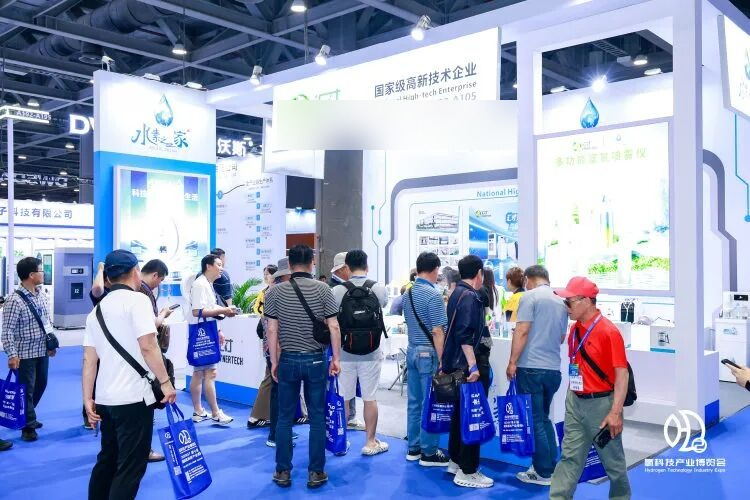
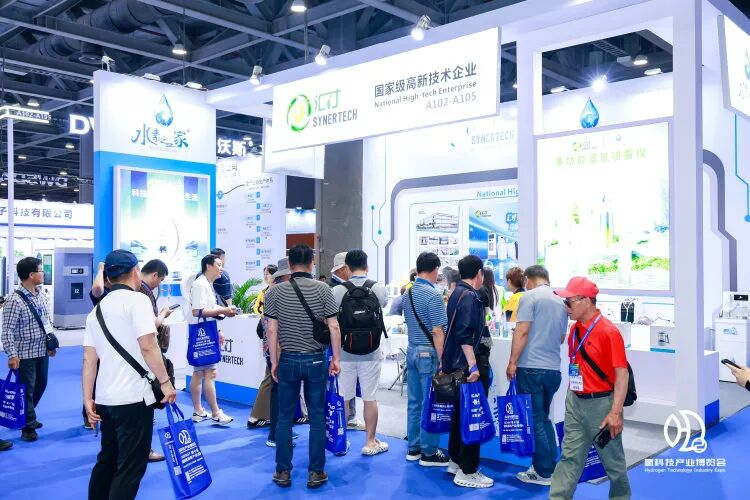
revert: 全面取消图片脱敏（品牌标识/电话/人脸一律恢复原图），图注不再声称已模糊处理

Changed region(s): [[0.368, 0.18, 0.5213, 0.3], [0.6133, 0.18, 0.7053, 0.24], [0.5213, 0.24, 0.6133, 0.27]]

diff --git a/report.html b/report.html
@@ -2274,8 +2274,8 @@ numbers.</p>
 <li><p><strong>产品形态与使用习惯</strong>： 运动随行电解富氢水杯、固态微孔便携发泡能量片（加入运动饮料冲调）、运动康复中心微高压富氢氧舱（1.3~1.5 ATA 赛后深度恢复）、富氢深层肌肉冰敷/热敷凝胶贴。</p></li>
 </ul>
 <hr />
-<div class="photo-evidence pe-strip"><img src="assets/expo_hydrogen_coffee.jpg" alt="观众在「AI 智能冰热现磨氢咖啡」机触屏前操作；机身为同行企业卡沃罗品牌（标识已作模糊处理）"/>
-<div class="pe-cap">观众在「AI 智能冰热现磨氢咖啡」机触屏前操作；机身为同行企业卡沃罗品牌（标识已作模糊处理）<span class="pe-src">2026HST 第十届广州国际氢科技产业博览会现场（2026-05，本报告研究组实拍）</span></div>
+<div class="photo-evidence pe-strip"><img src="assets/expo_hydrogen_coffee.jpg" alt="观众在「AI 智能冰热现磨氢咖啡」机触屏前操作；机身为同行企业卡沃罗品牌"/>
+<div class="pe-cap">观众在「AI 智能冰热现磨氢咖啡」机触屏前操作；机身为同行企业卡沃罗品牌<span class="pe-src">2026HST 第十届广州国际氢科技产业博览会现场（2026-05，本报告研究组实拍）</span></div>
 </div>
 <div class="pe-grid two">
 
@@ -2881,7 +2881,7 @@ numbers.</p>
 </ol>
 <h3 id="场景六氢中医与氢中药分子氢赋能传统中医药外治现代化氢三伏贴神阙贴与热灸中药透皮">5.3.6 场景六：氢中医与氢中药——分子氢赋能传统中医药外治现代化（氢三伏贴、神阙贴与热灸中药透皮）</h3>
 <div class="photo-evidence"><img src="assets/traditional_medicine_hongyao_fusion.jpg" alt="宏瑶股份宣传页：金秀瑶浴产品陈列、ODM 服务卡与瑶浴提取液"/>
-<div class="pe-cap">宏瑶股份宣传页：金秀瑶浴产品陈列、ODM 服务卡与瑶浴提取液（「氢＋中药」产学研合作实景：金秀道地瑶药种植基地、宏瑶股份深加工产线与瑶浴提取液；合作方定制服务信息与联系电话已作脱敏处理）<span class="pe-src">木齐科技「氢＋中药」产学研项目资料库</span>（原始实拍由广西宏瑶生物科技股份有限公司提供）</span></div>
+<div class="pe-cap">宏瑶股份宣传页：金秀瑶浴产品陈列、ODM 服务卡与瑶浴提取液（「氢＋中药」产学研合作实景：金秀道地瑶药种植基地、宏瑶股份深加工产线与瑶浴提取液；）<span class="pe-src">木齐科技「氢＋中药」产学研项目资料库</span>（原始实拍由广西宏瑶生物科技股份有限公司提供）</span></div>
 </div>
 
 <p>中医药外治法（贴敷、热敷、泥灸、足浴、熏蒸）千百年来面临一个根本性瓶颈：中草药大分子活性成分角质层透皮吸收率普遍不足 5%~10%。分子氢技术的跨界介入，为传统中医药的现代化赋能打开了突破口：</p>
@@ -2944,8 +2944,8 @@ numbers.</p>
 <div class="cs-title">本章要点 · 竞争格局与企业生态图谱</div>
 <ol><li><b>180 家企业的真实分层　</b>99% 无医疗器械证，绝大多数属普通小家电或日用品。可核查活跃企业约 180 家，集中于粤、鲁、浙、沪。</li><li><b>三足鼎立而非混战　</b>器械层（潓美双证）、材料层（固态氢供给）、渠道层（整机与会销）。<b>价值捕获集中在"证"与"材料"两端。</b></li><li><b>国际对照不能直接比　</b>中国 180 家无披露、韩国上市公司有披露——直接相比比的是两种披露制度，不是两种产业。本报告中韩对照只停在"方法可比"。</li><li><b>展会话语的迁移　</b>从"单一能源氢"走向"氢健康与氢农业"多元共生，反映的是产业出口饥渴的转移，而非单纯口号升级。</li></ol>
 </div></h1>
-<div class="photo-evidence pe-hero"><img src="assets/expo_kavoluo_booth.jpg" alt="蓝色特装展台全景：高大门头、天顶桁架与台下人流同框（展台属同行企业卡沃罗 CAVOLO，品牌标识已作模糊处理）"/>
-<div class="pe-cap">蓝色特装展台全景：高大门头、天顶桁架与台下人流同框（展台属同行企业卡沃罗 CAVOLO，品牌标识已作模糊处理）<span class="pe-src">2026HST 第十届广州国际氢科技产业博览会现场（2026-05，本报告研究组实拍）</span></div>
+<div class="photo-evidence pe-hero"><img src="assets/expo_kavoluo_booth.jpg" alt="蓝色特装展台全景：高大门头、天顶桁架与台下人流同框（展台属同行企业卡沃罗 CAVOLO）"/>
+<div class="pe-cap">蓝色特装展台全景：高大门头、天顶桁架与台下人流同框（展台属同行企业卡沃罗 CAVOLO）<span class="pe-src">2026HST 第十届广州国际氢科技产业博览会现场（2026-05，本报告研究组实拍）</span></div>
 </div>
 <h2 id="s6-1">6.1 180+ 存量企业图谱与产业集群分布</h2>
 <p>产业监测数据表明，中国目前具备可核查实体运营、拥有品牌或自主商标的氢健康相关企业约有 <strong>180 余家</strong>。在地理分布上，产业形成了极其鲜明的三大区域集群效应：</p>
@@ -3142,8 +3142,8 @@ numbers.</p>
 </tbody>
 </table></div>
 <hr />
-<div class="photo-evidence"><img src="assets/expo_hightech_cert.jpg" alt="某参展企业展位门头标注「国家级高新技术企业」与展位号 A102／A105（企业名称已作模糊处理；此为单一企业样本，不代表行业普遍状况）"/>
-<div class="pe-cap">某参展企业展位门头标注「国家级高新技术企业」与展位号 A102／A105（企业名称已作模糊处理；此为单一企业样本，不代表行业普遍状况）<span class="pe-src">2026HST 第十届广州国际氢科技产业博览会现场（2026-05，本报告研究组实拍）</span></div>
+<div class="photo-evidence"><img src="assets/expo_hightech_cert.jpg" alt="某参展企业展位门头标注「国家级高新技术企业」与展位号 A102／A105（；此为单一企业样本，不代表行业普遍状况）"/>
+<div class="pe-cap">某参展企业展位门头标注「国家级高新技术企业」与展位号 A102／A105（；此为单一企业样本，不代表行业普遍状况）<span class="pe-src">2026HST 第十届广州国际氢科技产业博览会现场（2026-05，本报告研究组实拍）</span></div>
 </div>
 <h2 id="s7-2">7.2 准入闸门事实还原：从三类证逐字核验到二类证“主动注销”</h2>
 <h3 id="上海潓美两张第三类医疗器械注册证逐字核验">7.2.1 上海潓美两张第三类医疗器械注册证逐字核验</h3>

diff --git a/index.html b/index.html
@@ -217,7 +217,7 @@ footer .fine{margin-top:34px;padding-top:20px;border-top:1px solid rgba(255,255,
     </div>
     <p class="fine">本报告为独立研究产出，服务于产业研究与跨境合作讨论，不构成任何医疗建议、诊断依据或投资建议。
       文中临床数据均引自公开发表的原始文献，具体适应症与使用方式须遵循执业医师判断与监管规定。
-      文中现场照片均摄于公开场合；涉及第三方的联系电话与部分品牌标识已作脱敏处理。</p>
+      文中现场照片均摄于公开场合，画面内容按原样呈现。</p>
   </div>
 </footer>
 

diff --git a/README.md b/README.md
@@ -59,7 +59,7 @@ CHANGELOG.md        版本修订记录
 - **论文数不可与注册数相除**——中间隔着「做了没发」「发了没注册」「注册了没做」三道流失；
 - **两类市场口径不并列不相除**——细分实证口径（富氢水机 42.3 亿元）与宿主渗透推演口径（家电 11,695 亿元分母）不可相加。
 
-图片一律标注来源与授权状态。现场照片均摄于公开场合；涉及第三方的联系电话与部分品牌标识已作脱敏处理；凡涉及企业自述材料的图片，均在来源中注明「企业自述」。
+图片一律标注来源与授权状态。现场照片均摄于公开场合，画面按原样呈现；凡涉及企业自述材料的图片，均在来源中注明「企业自述」。
 
 ## 关于选样与数据边界
 
